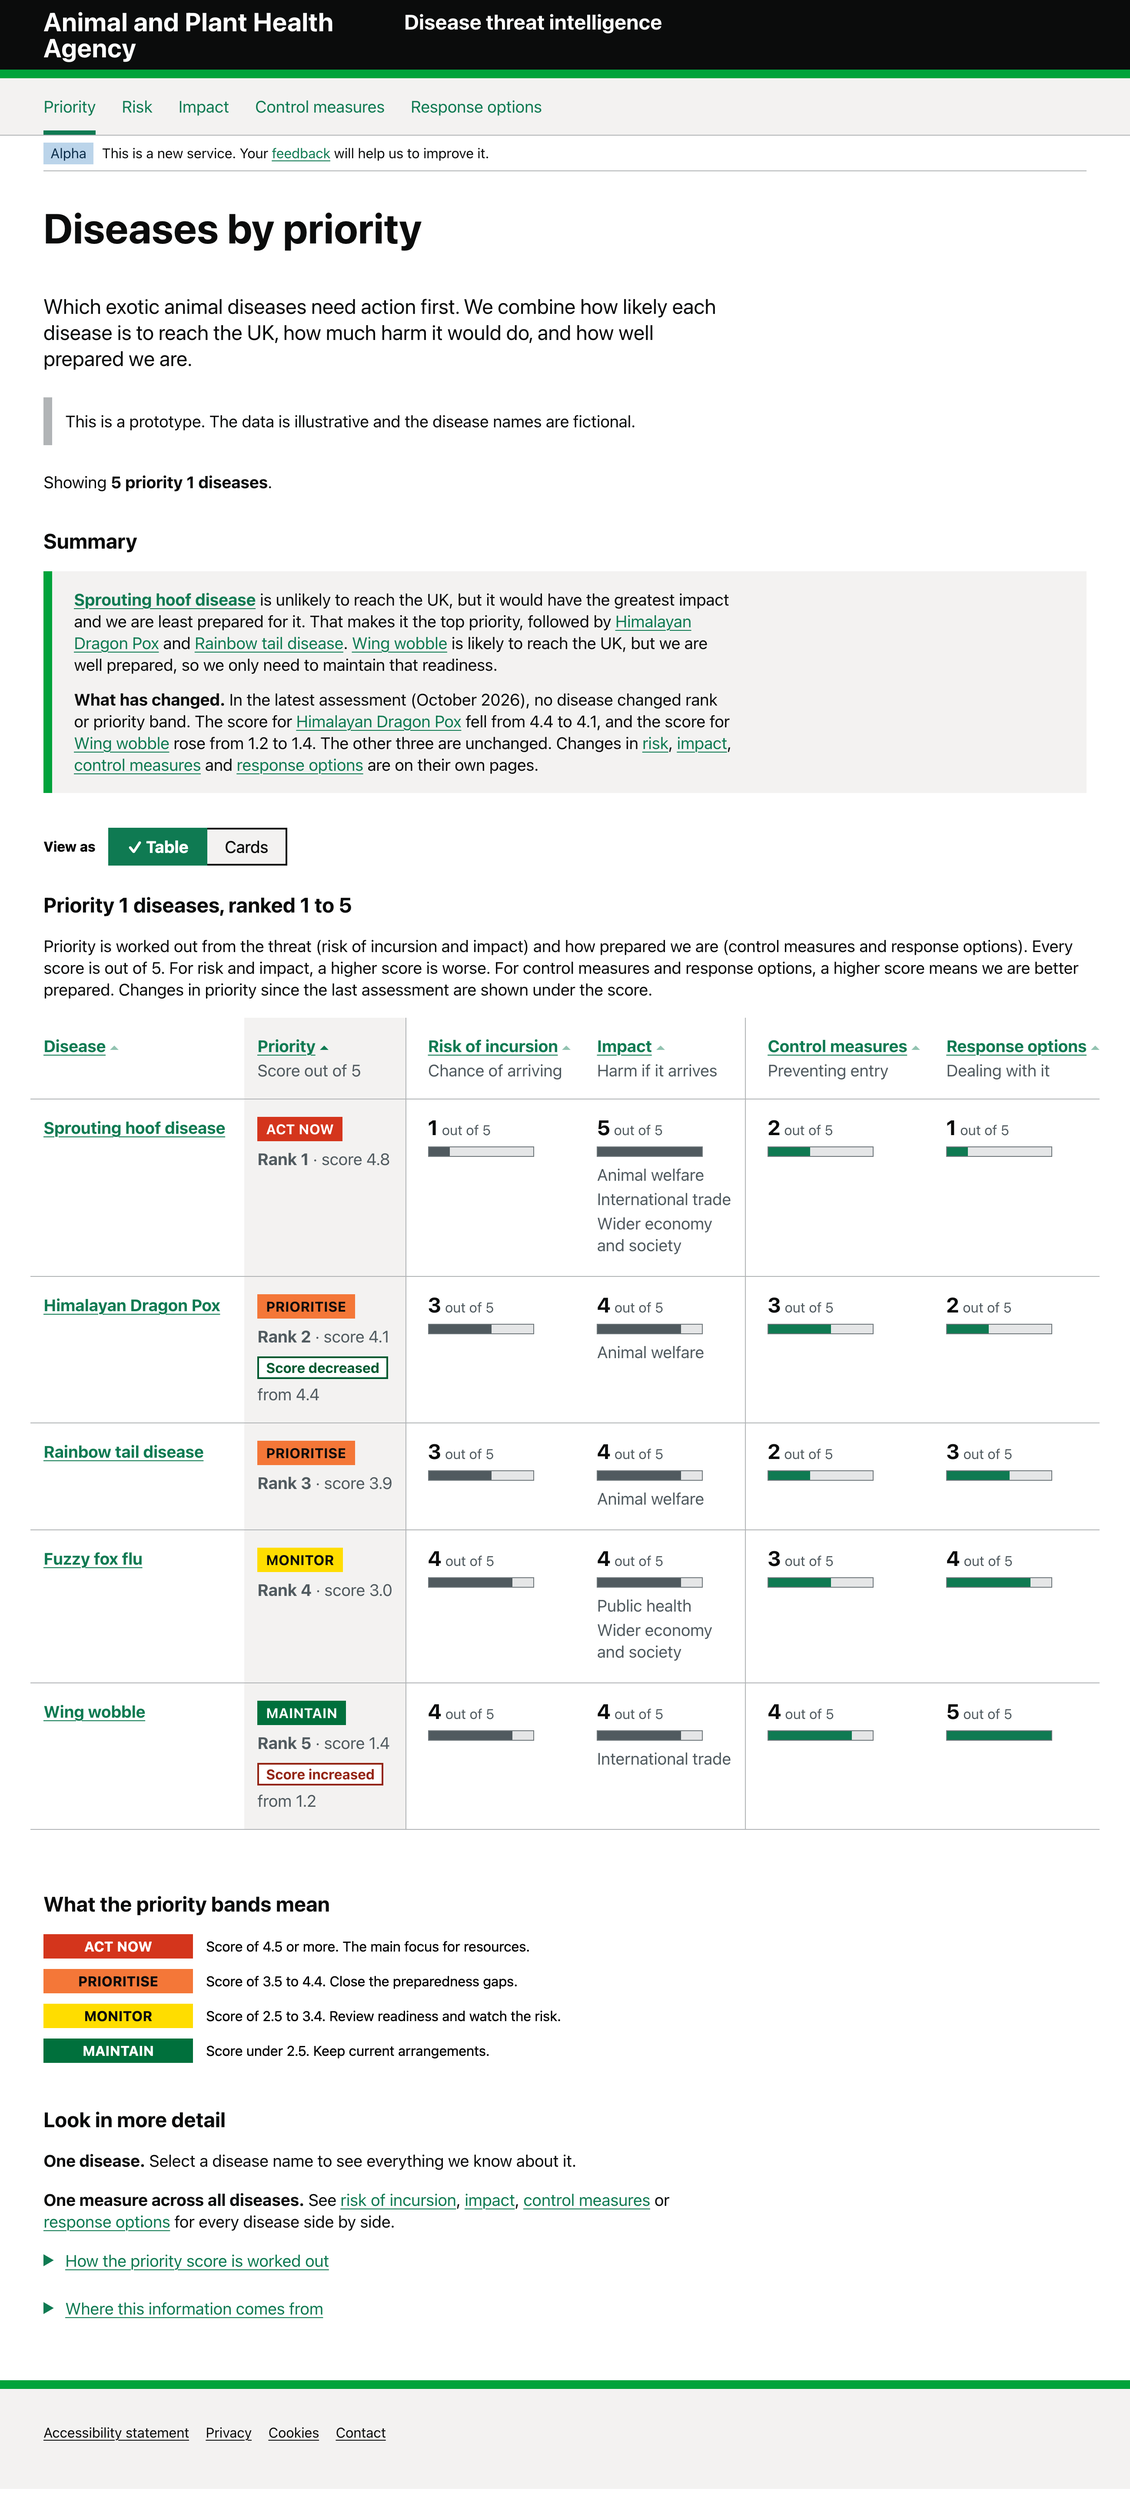
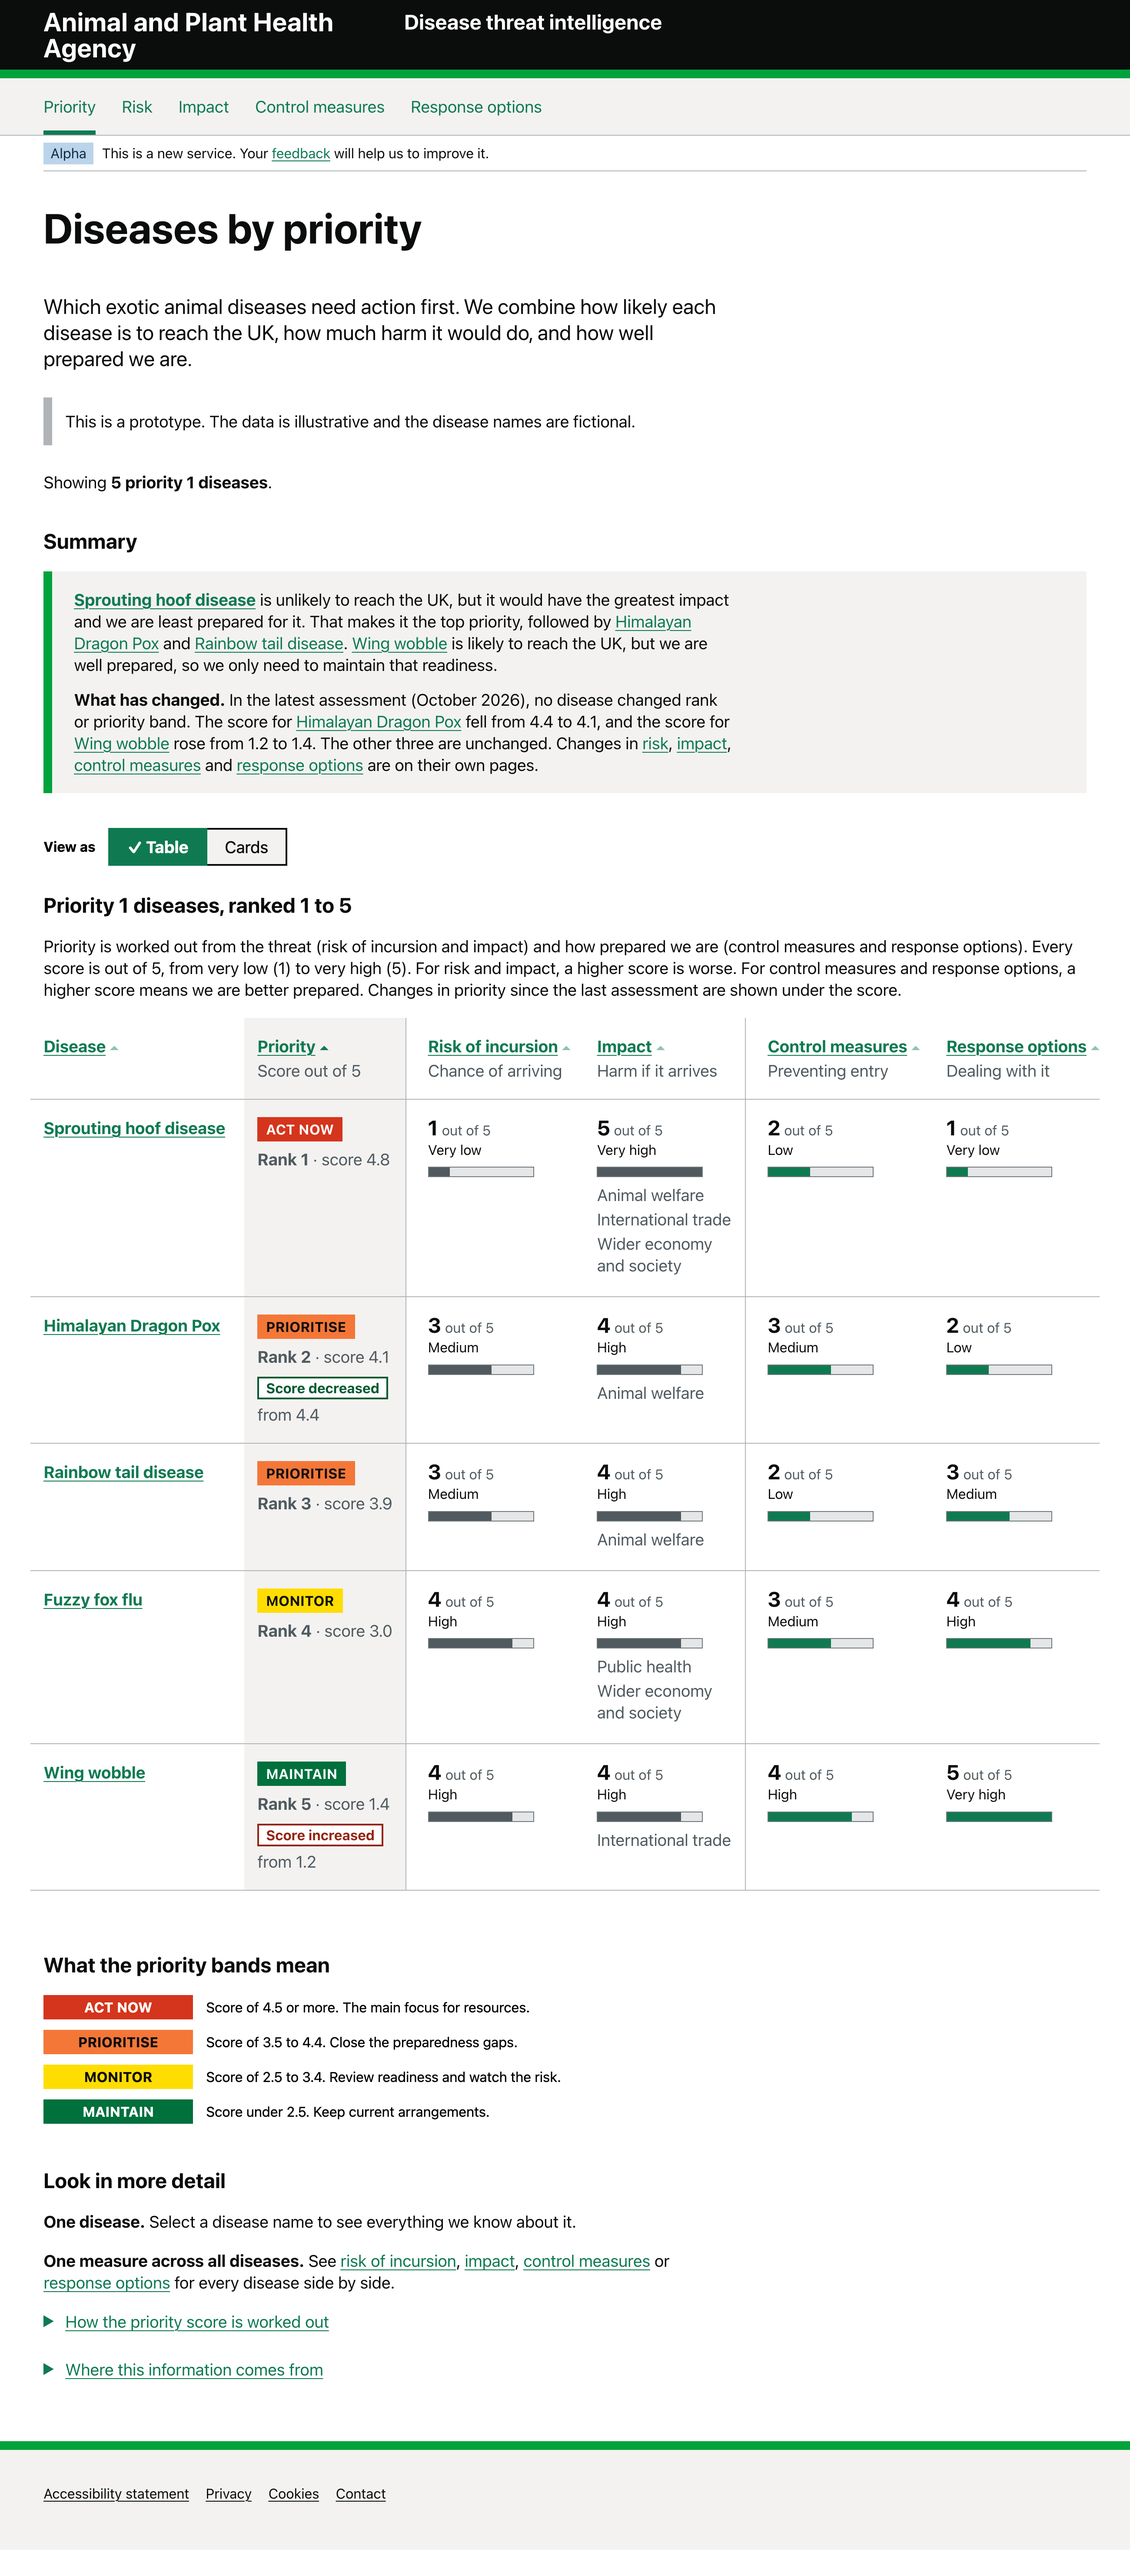
Add very low to very high words beside the 1 to 5 measure scores

diff --git a/app/views/docs/priority-view-test-plan.html b/app/views/docs/priority-view-test-plan.html
@@ -28,7 +28,7 @@
     </ol>
     <p class="govuk-body">The second job is the main one. Spend roughly a third of each session on it.</p>
     <h2 class="govuk-heading-l">What we are testing</h2>
-    <p class="govuk-body">The page shows five fictional priority 1 diseases. Each disease shows priority (band, rank, score out of 5), then threat (risk of incursion, impact) and preparedness (control measures, response options), each scored out of 5. A plain-language summary is at the top. Below are the band key, how the score works and where the information comes from. The source is deliberately not repeated at the top, so T6 tests whether people find it at the bottom.</p>
+    <p class="govuk-body">The page shows five fictional priority 1 diseases. Each disease shows priority (band, rank, score out of 5), then threat (risk of incursion, impact) and preparedness (control measures, response options), each scored out of 5 and labelled very low, low, medium, high or very high. A plain-language summary is at the top. Below are the band key, how the score works and where the information comes from. The source is deliberately not repeated at the top, so T6 tests whether people find it at the bottom.</p>
     <p class="govuk-body"><strong>In scope:</strong> reading and comparing, the priority band and score, the four layers, the summary, sorting, source and trust.
     <strong>Out of scope:</strong> the disease page, the layer pages and how users route to them (the concept test). Clicks on those links land on a "This page is not part of the test" page. <strong>Record every one of them as a first click.</strong> They show where people expect to go next, which feeds the routing decision.
     <strong>Not being tested:</strong> whether the scores are right. All five scores are illustrative and out of 5, with no formula shown, so there is less to challenge. If SMEs question how a score is made, capture it, but don't debate it. See "Risks".</p>
@@ -269,7 +269,7 @@
     <h2 class="govuk-heading-l">Comprehension probes</h2>
     <p class="govuk-body">Ask after the tasks, one at a time, and note the words they use.
     - "What does 'Act now' mean to you? Would you do something different for 'Prioritise'?"
-    - "What do the numbers out of 5 tell you? Is a high number good or bad?" (Preparedness is higher = better, but a high risk is worse. This is the main confusion risk.)
+    - "What do the numbers out of 5 tell you? Is a high number good or bad?" (Preparedness is higher = better, but a high risk is worse. The words very low to very high sit beside the numbers, so "High" means good for control measures and bad for risk. This is the main confusion risk.)
     - "What does a score of 4.1 out of 5 mean?" Do they open "How the priority score is worked out"? Do they find it helpful or too much?
     - "What is the difference between 'control measures' and 'response options'?"
     - "Is anything missing that you'd need before you trusted the order?"</p>

diff --git a/app/assets/design/priority-view/option-c.html b/app/assets/design/priority-view/option-c.html
@@ -82,7 +82,7 @@
     <!-- ===== Table view ===== -->
     <div id="view-table">
       <p class="app-view-label">Option C, table view</p>      <h2 class="govuk-heading-m" id="table-heading">Priority 1 diseases, ranked 1 to 5</h2>
-      <p class="govuk-body" id="table-desc">Priority is worked out from the threat (risk of incursion and impact) and how prepared we are (control measures and response options). Every score is out of 5. For risk and impact, a higher score is worse. For control measures and response options, a higher score means we are better prepared. Changes in priority since the last assessment are shown under the score.</p>
+      <p class="govuk-body" id="table-desc">Priority is worked out from the threat (risk of incursion and impact) and how prepared we are (control measures and response options). Every score is out of 5, from very low (1) to very high (5). For risk and impact, a higher score is worse. For control measures and response options, a higher score means we are better prepared. Changes in priority since the last assessment are shown under the score.</p>
       <p class="govuk-hint app-sort-note">Sorting is not available on small screens. Diseases are shown in priority order.</p>
 
       <div class="app-scroll" tabindex="0" role="region" aria-label="Priority table, scrolls sideways on narrow screens">
@@ -177,7 +177,7 @@
     <!-- ===== Cards view ===== -->
     <div id="view-cards" hidden>
       <p class="app-view-label">Option C, cards view</p>      <h2 class="govuk-heading-m" id="cards-heading">Priority 1 diseases, grouped by what to do</h2>
-      <p class="govuk-body" id="cards-desc">Priority is worked out from the threat (risk of incursion and impact) and how prepared we are (control measures and response options). Every score is out of 5. For risk and impact, a higher score is worse. For control measures and response options, a higher score means we are better prepared. Changes in priority since the last assessment are shown under the score.</p>
+      <p class="govuk-body" id="cards-desc">Priority is worked out from the threat (risk of incursion and impact) and how prepared we are (control measures and response options). Every score is out of 5, from very low (1) to very high (5). For risk and impact, a higher score is worse. For control measures and response options, a higher score means we are better prepared. Changes in priority since the last assessment are shown under the score.</p>
 
       <section class="app-band-section" aria-labelledby="band-act">
         <div class="app-band-section__head">
@@ -428,5 +428,6 @@
     }
   })();
 </script>
+<script src="score-labels.js"></script>
 </body>
 </html>

diff --git a/app/views/design-notes.html b/app/views/design-notes.html
@@ -171,7 +171,7 @@
         </tr>
         <tr class="govuk-table__row">
           <th scope="row" class="govuk-table__header">Score priority and each of the four measures out of 5</th>
-          <td class="govuk-table__cell">Priority, risk, impact, control measures and response options are each a score out of 5, shown with a bar and the number. Priority is in four bands: Act now, Prioritise, Monitor and Maintain. The earlier formula and its score out of 140 were fictional, so we dropped them to avoid research questions about the model. The test is of the page, not of the model</td>
+          <td class="govuk-table__cell">Priority, risk, impact, control measures and response options are each a score out of 5, shown with a bar and the number. The four measures also get a word: 1 is very low, 2 low, 3 medium, 4 high and 5 very high. Priority is in four bands: Act now, Prioritise, Monitor and Maintain. The earlier formula and its score out of 140 were fictional, so we dropped them to avoid research questions about the model. The test is of the page, not of the model</td>
           <td class="govuk-table__cell"><strong class="govuk-tag govuk-tag--grey">Given</strong></td>
         </tr>
       </tbody>
@@ -349,7 +349,7 @@
       <li><strong>Which participants</strong>, and how do we recruit people who work by disease and by measure?</li>
       <li><strong>How do people reach a measure page?</strong> If they miss both the navigation and the &quot;Look in more detail&quot; line, we try column headings as links.</li>
       <li><strong>Sections or pages?</strong> Is each of risk, impact, control measures and response options a separate page or a section of one page? Does impact need its own page?</li>
-      <li><strong>Scales.</strong> The prototype shows every score out of 5. How do the five risk levels in the monthly report map to a score out of 5? Does impact change over time, or is it fixed until reassessed?</li>
+      <li><strong>Scales.</strong> The prototype shows each measure out of 5 with a word (very low to very high), which should line up with the five risk levels in the monthly report. Do they? Does impact change over time, or is it fixed until reassessed?</li>
       <li><strong>Real data.</strong> Which diseases have which impact areas, and what were last month&rsquo;s scores? Both are made up in the prototype.</li>
     </ul>
 

diff --git a/app/assets/design/priority-view/index.html b/app/assets/design/priority-view/index.html
@@ -73,7 +73,7 @@
     <p class="govuk-hint app-sort-note">Sorting is not available on small screens. Diseases are shown in priority order.</p>
 
     <h2 class="govuk-heading-m" id="table-heading">Priority 1 diseases, ranked 1 to 5</h2>
-    <p class="govuk-body" id="table-desc">Priority is worked out from the threat (risk of incursion and impact) and how prepared we are (control measures and response options). Every score is out of 5. For risk and impact, a higher score is worse. For control measures and response options, a higher score means we are better prepared. Changes in priority since the last assessment are shown under the score.</p>
+    <p class="govuk-body" id="table-desc">Priority is worked out from the threat (risk of incursion and impact) and how prepared we are (control measures and response options). Every score is out of 5, from very low (1) to very high (5). For risk and impact, a higher score is worse. For control measures and response options, a higher score means we are better prepared. Changes in priority since the last assessment are shown under the score.</p>
 
     <div class="app-scroll" tabindex="0" role="region" aria-label="Priority table, scrolls sideways on narrow screens">
     <table class="govuk-table app-table app-table--rows" id="priority-table" aria-labelledby="table-heading" aria-describedby="table-desc" data-module="app-sortable-table">
@@ -288,5 +288,6 @@
     }
   })();
 </script>
+<script src="score-labels.js"></script>
 </body>
 </html>

diff --git a/app/assets/design/priority-view/option-b.html b/app/assets/design/priority-view/option-b.html
@@ -58,7 +58,7 @@
         <div class="govuk-inset-text">
           This is a prototype. The data is illustrative and the disease names are fictional.
         </div>
-        <p class="govuk-body app-scope">Showing <strong>5 priority 1 diseases</strong>. Every score is out of 5. For risk and impact, a higher score is worse. For control measures and response options, a higher score means we are better prepared.</p>
+        <p class="govuk-body app-scope">Showing <strong>5 priority 1 diseases</strong>. Every score is out of 5, from very low (1) to very high (5). For risk and impact, a higher score is worse. For control measures and response options, a higher score means we are better prepared.</p>
 
         <h2 class="govuk-heading-m" id="summary-heading">Summary</h2>
         <div class="app-focus" aria-labelledby="summary-heading">
@@ -220,5 +220,6 @@
     </div>
   </div>
 </footer>
+<script src="score-labels.js"></script>
 </body>
 </html>

diff --git a/app/assets/design/priority-view/priority.css b/app/assets/design/priority-view/priority.css
@@ -79,6 +79,7 @@ html.govuk-template, .govuk-template__body { background: #fff; }
 /* One colour, length carries the value. The number is always visible text. */
 .app-score { display: block; font-weight: 700; font-size: 1.5rem; line-height: 1; }
 .app-score small { font-size: 1rem; font-weight: 400; color: var(--secondary); }
+.app-level { display: block; margin-top: 4px; font-size: 1rem; line-height: 1.2; }
 .app-bar { display: block; width: 100%; max-width: 120px; height: 10px; margin-top: 10px; background: #e5e6e7; border: 1px solid var(--track-outline); }
 .app-bar > span { display: block; height: 100%; background: var(--defra-link); }
 /* Risk and impact are threats: a higher score is worse. Preparedness is the opposite, so threats use a neutral fill, not red or green. */

diff --git a/app/assets/design/priority-view/score-labels.js b/app/assets/design/priority-view/score-labels.js
@@ -1,0 +1,12 @@
+// Adds a word to each 1 to 5 measure score, so "1 out of 5" also reads "Very low".
+;(function () {
+  var levels = ['Very low', 'Low', 'Medium', 'High', 'Very high']
+  document.querySelectorAll('.app-score').forEach(function (score) {
+    var level = levels[parseInt(score.textContent, 10) - 1]
+    if (!level) return
+    var label = document.createElement('span')
+    label.className = 'app-level'
+    label.textContent = level
+    score.insertAdjacentElement('afterend', label)
+  })
+})()
